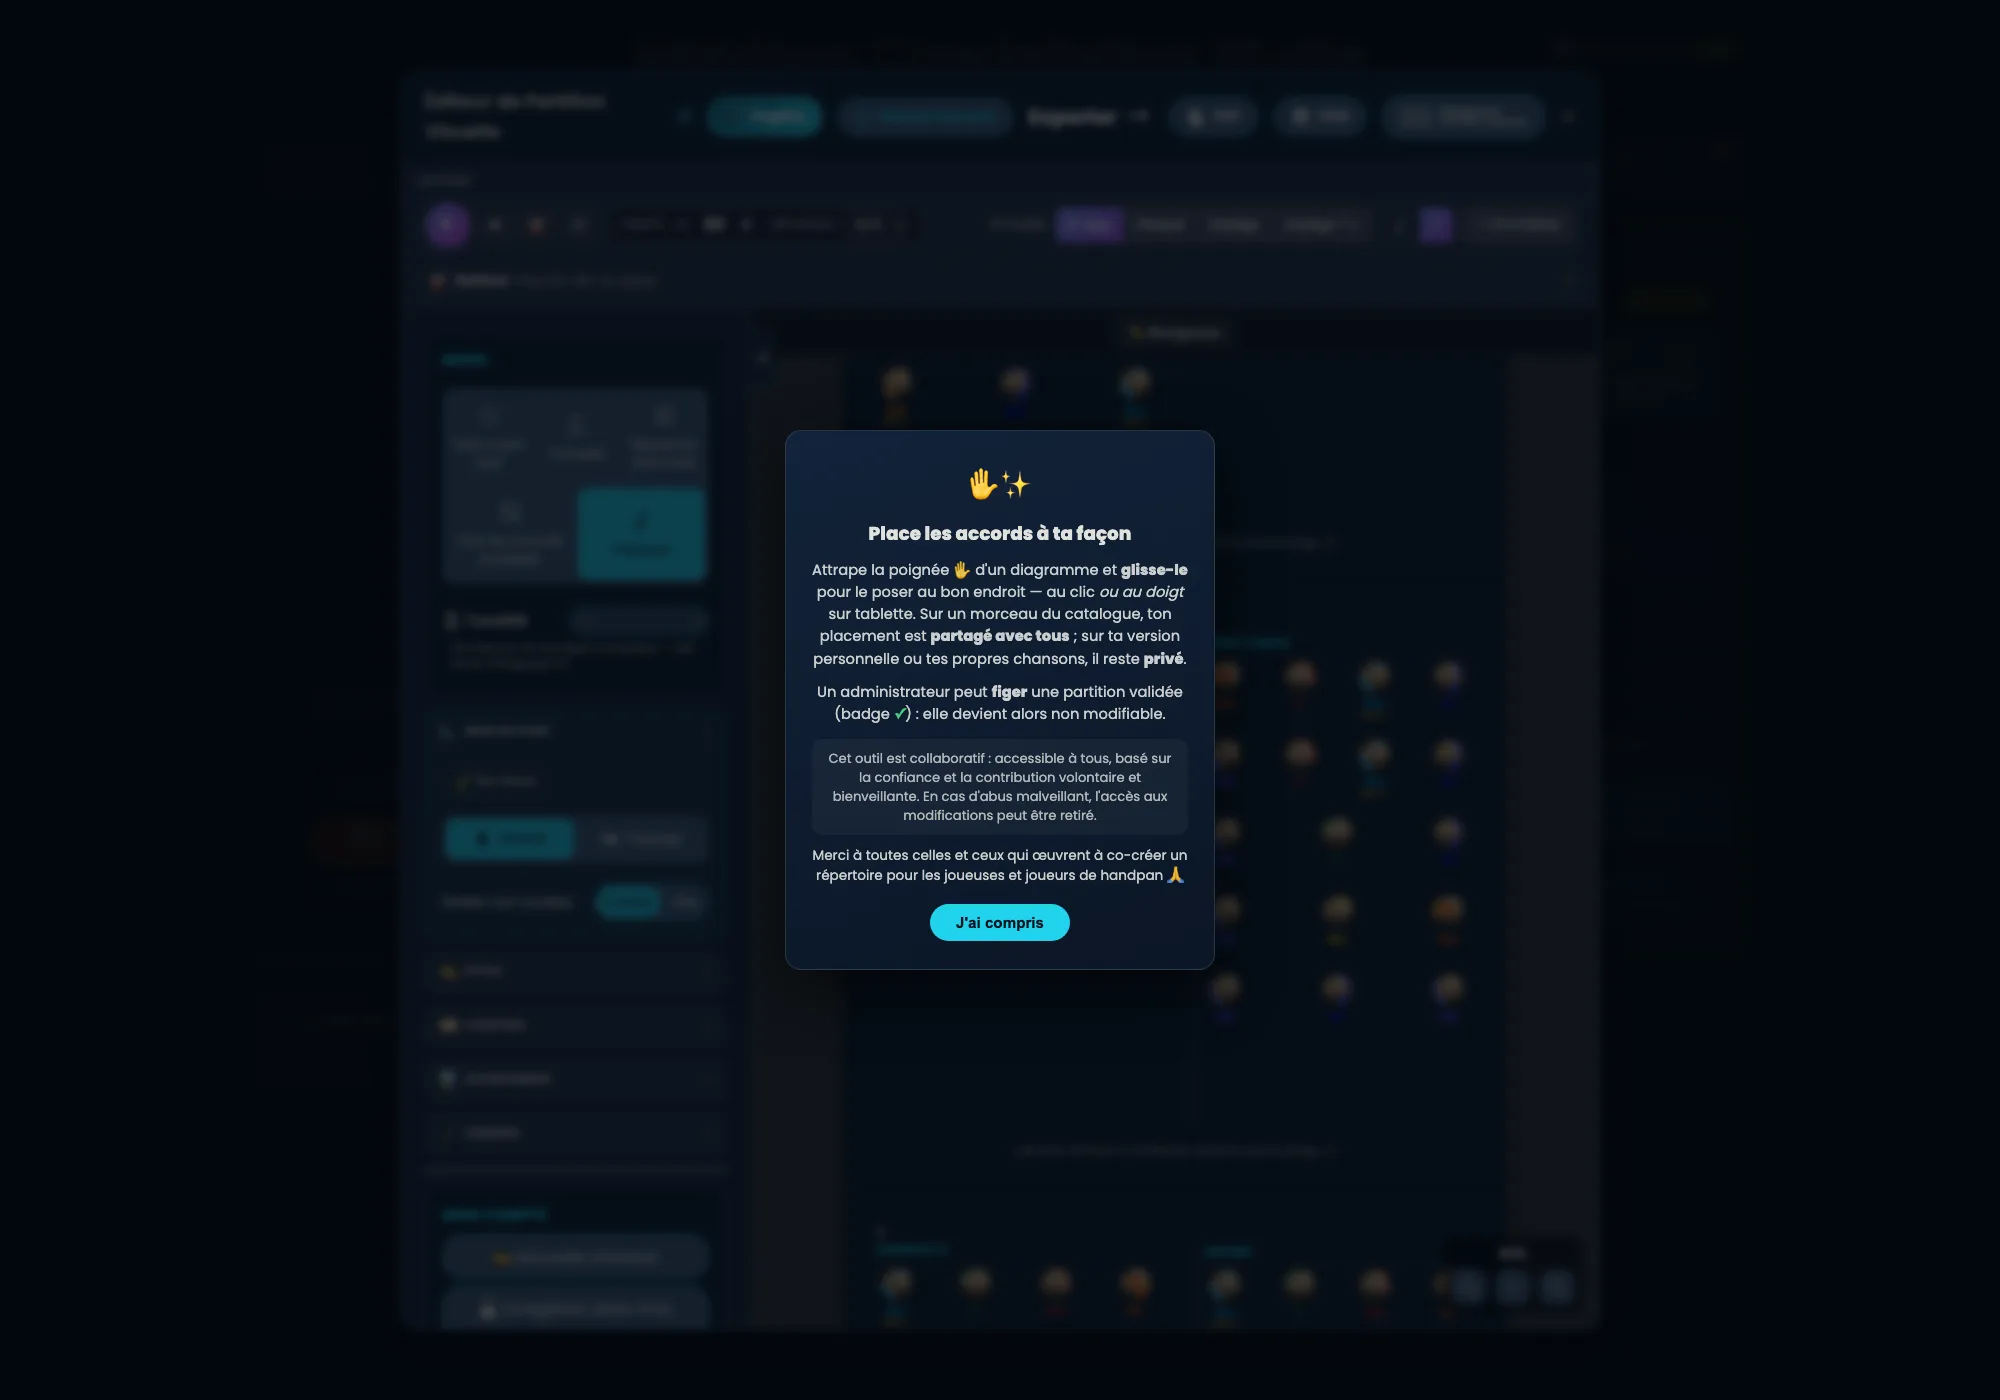
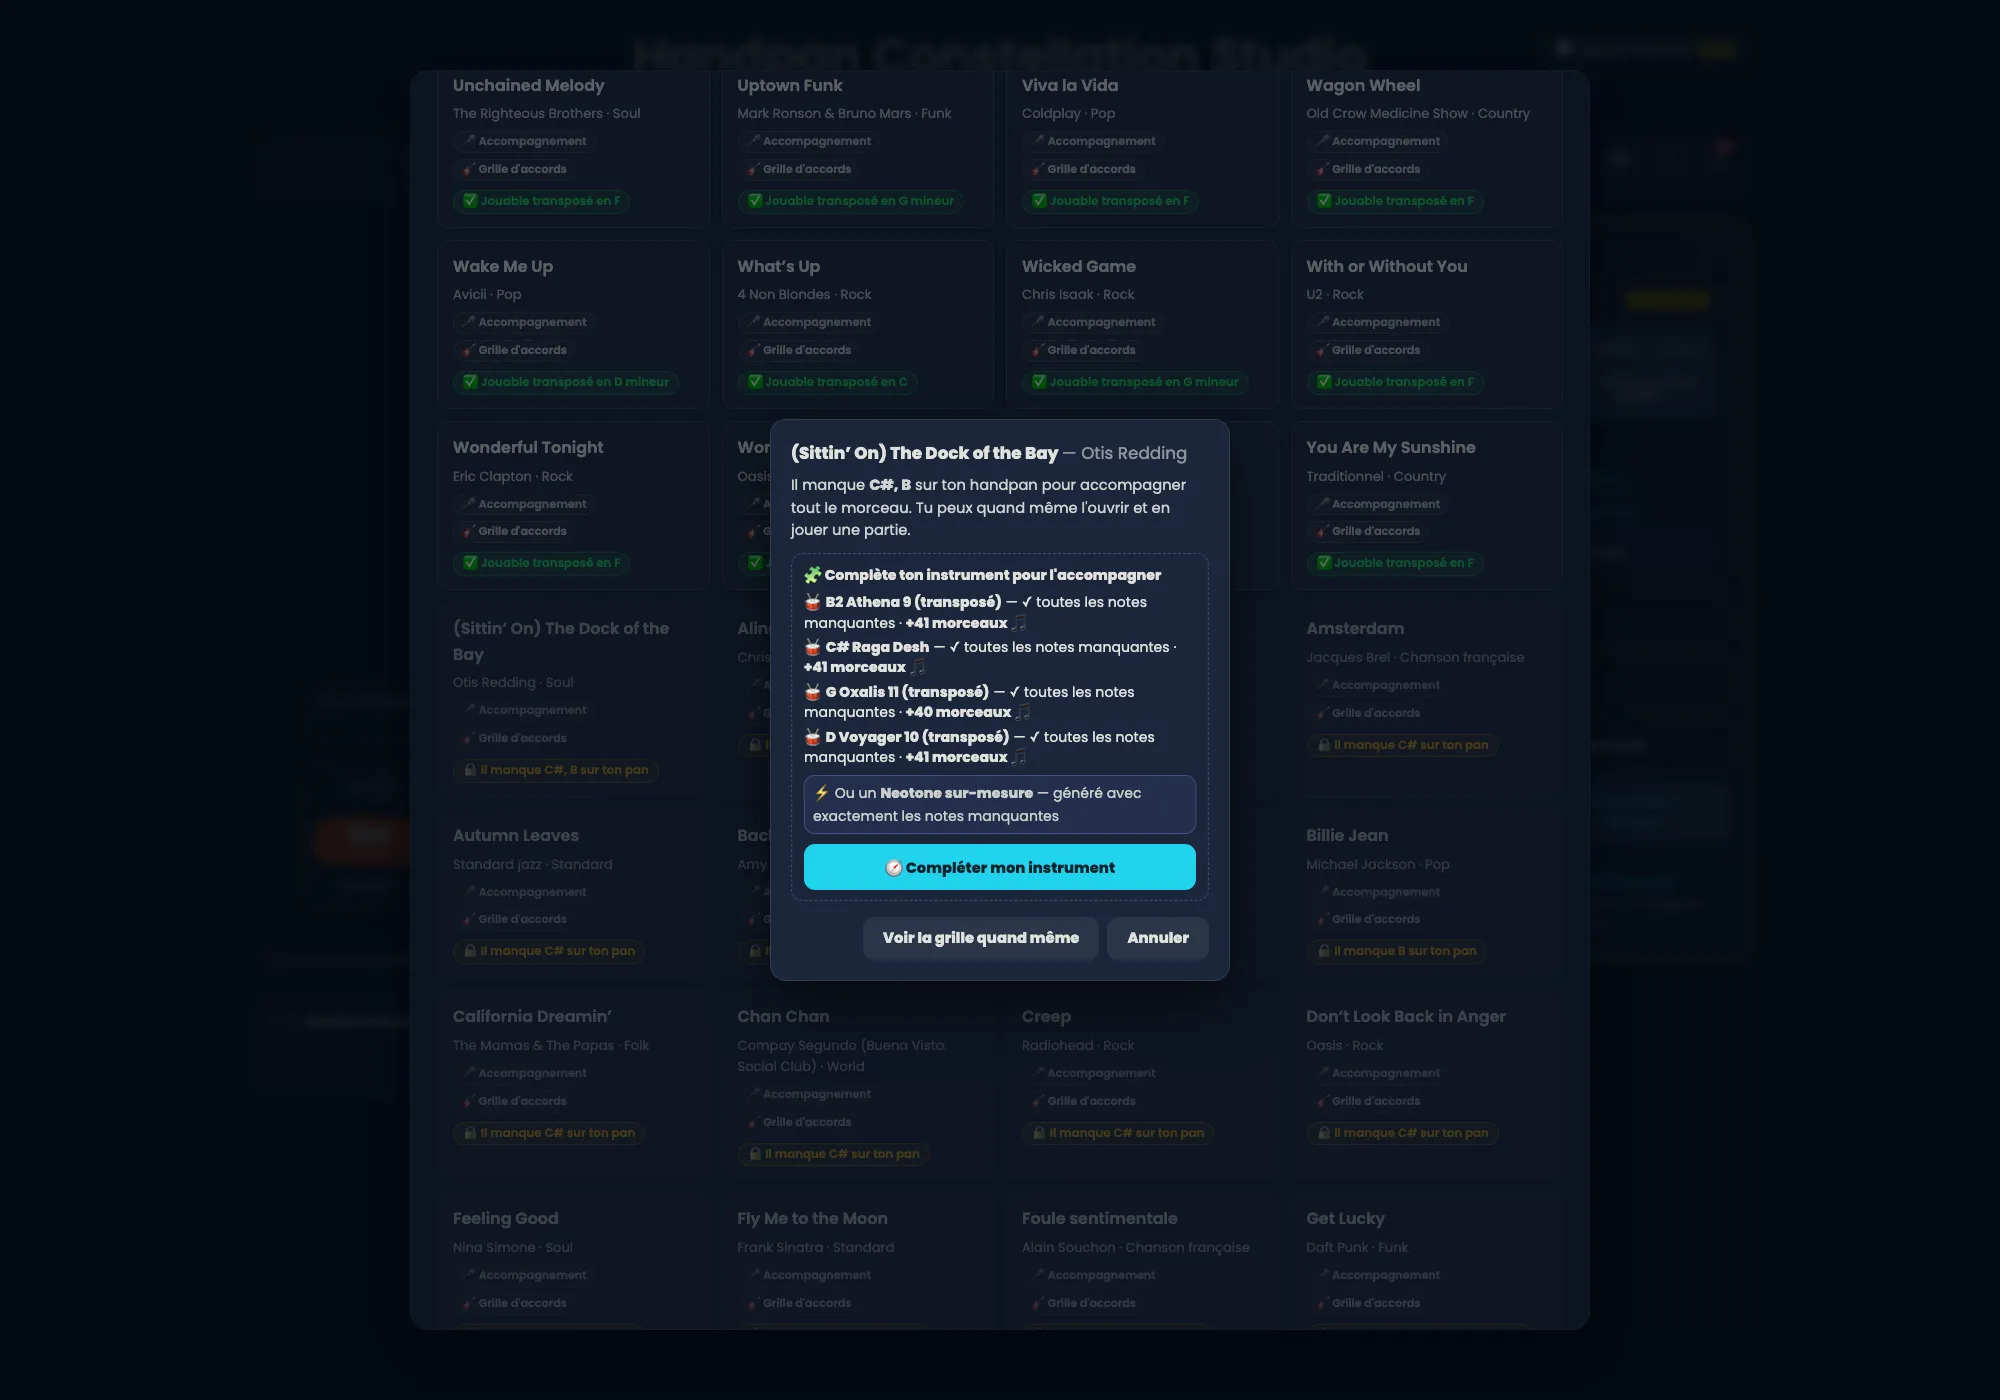
Un morceau bloqué n'est pas un mur : l'article le montre enfin
Rectificatif de la session APP (06/09 ~17h20) : les deux mécanismes coexistent.
« bibliotheque-musicale-handpan » disait « un bouton pour basculer sur la bonne
gamme » — faux. Chiffres mesurés sur D Kurd 10 (156 jouables, 41 bloqués), le vrai
dialogue de The Dock of the Bay (notes manquantes nommées, 4 handpans complémentaires
chiffrés, Neotone sur-mesure, « Voir la grille quand même ») et sa capture réelle.

Atlas : vignette recadrée 6 destinations en couverture (FR + EN).
MIDI : app-midi.webp (juin, onglet périmé) remplacée par l'assistant de mapping
actuel dans l'article Neotone, StudioPage et la boutique. L'ancienne image est
conservée, on ne supprime pas les archives.

FR + EN. Build 116 pages.

diff --git a/src/data/shop.ts b/src/data/shop.ts
@@ -54,7 +54,7 @@ export const categorySubs: Record<string, readonly string[]> = {
 
 export const products: Product[] = [
   // Application Handpan Constellation Studio — produit phare digital
-  { id: 'handpan-studio', price: 0, image: '/images/app-logique.webp', imgW: 1100, imgH: 1327, url: '/handpan-app', category: 'app', active: true, mode: 'link', linkLabel: 'discover', tagKey: 'app', priceLabel: 'Version gratuite ou Studio dès 9,90 €/mois', images: ['/images/app-logique.webp', '/images/app-atlas.webp', '/images/app-creation.webp', '/images/app-midi.webp', '/images/constel-polygone.webp'] },
+  { id: 'handpan-studio', price: 0, image: '/images/app-logique.webp', imgW: 1100, imgH: 1327, url: '/handpan-app', category: 'app', active: true, mode: 'link', linkLabel: 'discover', tagKey: 'app', priceLabel: 'Version gratuite ou Studio dès 9,90 €/mois', images: ['/images/app-logique.webp', '/images/app-atlas.webp', '/images/app-creation.webp', '/images/app-midi-mapping-2026.webp', '/images/constel-polygone.webp'] },
   { id: 'neotone-one', price: 1990, image: '/images/neotone1-1.jpg', imgW: 670, imgH: 653, url: '/le-neotone', category: 'handpans', sub: 'electronique', active: true, mode: 'quote', images: modelCarousels.one.map((s) => s.src) },
   { id: 'neotone-mutant', price: 3150, image: '/images/mutant-0.jpg', imgW: 670, imgH: 614, url: '/le-neotone', category: 'handpans', sub: 'electronique', active: true, mode: 'quote', images: modelCarousels.mutant.map((s) => s.src) },
   // ⚖ Yishama vit dans la catégorie « handpans », sous-catégorie ACOUSTIQUE, à

diff --git a/src/content/blog/bibliotheque-musicale-handpan.md b/src/content/blog/bibliotheque-musicale-handpan.md
@@ -37,7 +37,7 @@ Chaque morceau porte désormais une pastille, calculée sur les notes réelles d
 - 🥁 **jouable avec un autre joueur** ;
 - 🔒 **il manque des notes** — et l'app te dit lesquelles.
 
-Des compteurs en tête de liste t'annoncent la couleur avant même que tu cherches. Et si tu cliques quand même sur un morceau incompatible, tu n'as pas droit à un refus sec : tu obtiens une explication claire et un bouton pour basculer sur la bonne gamme. En mode acoustique, l'app va plus loin et te propose le morceau **transposé dans la tonalité de ton handpan**.
+Des compteurs en tête de liste t'annoncent la couleur avant même que tu cherches. Sur un **D Minor / Kurd 10**, le compte tombe net : **156 morceaux jouables, 41 bloqués**. Les deux mécanismes cohabitent, ils ne s'excluent pas — la transposition automatique (« ✅ Jouable transposé en F ») rend jouable ce qui peut l'être dans une autre tonalité, et la pastille ambre (« 🔒 Il manque C# sur ton pan ») annonce franchement ce qui ne rentre pas.
 
 <figure>
   <img
@@ -52,6 +52,26 @@ Des compteurs en tête de liste t'annoncent la couleur avant même que tu cherch
   <figcaption>La liste, avec les pastilles calculées sur la gamme chargée. En tête, le compte annoncé avant toute recherche : « <strong>Tu peux en accompagner 156</strong> · 41 de plus avec d'autres notes ». Sur les fiches, la nuance est visible — <em>He's a Pirate</em> est jouable tel quel, <em>Let It Be</em> et <em>Hallelujah</em> jouables transposés en F, <em>Zombie</em> en ré mineur.</figcaption>
   <p class="figure-hint"><svg viewBox="0 0 24 24" fill="none" stroke="currentColor" stroke-width="2" stroke-linecap="round" stroke-linejoin="round" aria-hidden="true"><polyline points="15 3 21 3 21 9"></polyline><polyline points="9 21 3 21 3 15"></polyline><line x1="21" y1="3" x2="14" y2="10"></line><line x1="3" y1="21" x2="10" y2="14"></line></svg>Clique sur l'image pour l'ouvrir, puis à nouveau dessus pour la taille réelle.</p>
 </figure>
+
+Un morceau bloqué s'ouvre quand même. Clique dessus et l'app ne te claque pas la porte au nez : elle nomme les notes qui manquent, te dit que tu peux entrer malgré tout, puis te montre par quoi compléter ton instrument — chiffres à l'appui.
+
+<figure>
+  <img
+    src="/images/app-bibliotheque-morceau-incompatible.webp"
+    width="2000"
+    height="1400"
+    alt="La bibliothèque en thème sombre, avec par-dessus le dialogue ouvert sur un morceau bloqué. Derrière, les fiches montrent les deux familles de pastilles : en vert « ✅ Jouable transposé en F », « ✅ Jouable transposé en G mineur », « ✅ Jouable transposé en D mineur » (Unchained Melody, Uptown Funk, Viva la Vida, Wagon Wheel, Wake Me Up, What's Up, Wicked Game, With or Without You, Wonderful Tonight, You Are My Sunshine) ; en ambre « 🔒 Il manque C# sur ton pan », « 🔒 Il manque C#, B sur ton pan », « 🔒 Il manque B sur ton pan » (California Dreamin', Chan Chan, Creep, Don't Look Back in Anger, Amsterdam, Billie Jean). Au centre, le dialogue intitulé « (Sittin' On) The Dock of the Bay — Otis Redding » : « Il manque C#, B sur ton handpan pour accompagner tout le morceau. Tu peux quand même l'ouvrir et en jouer une partie. » Puis un encadré « 🧩 Complète ton instrument pour l'accompagner » listant quatre handpans complémentaires chiffrés : 🥁 B2 Athena 9 (transposé) — ✓ toutes les notes manquantes · +41 morceaux ; 🥁 C# Raga Desh — ✓ toutes les notes manquantes · +41 morceaux ; 🥁 G Oxalis 11 (transposé) — ✓ toutes les notes manquantes · +40 morceaux ; 🥁 D Voyager 10 (transposé) — ✓ toutes les notes manquantes · +41 morceaux. En dessous, un encadré « ⚡ Ou un Neotone sur-mesure — généré avec exactement les notes manquantes », un grand bouton cyan « 🧭 Compléter mon instrument », et deux boutons secondaires « Voir la grille quand même » et « Annuler »."
+    data-lb="incompatible"
+    data-lb-wide
+    loading="lazy"
+  />
+  <figcaption>Le dialogue d'un morceau bloqué — <em>(Sittin' On) The Dock of the Bay</em> sur un D Kurd 10. L'app nomme les notes absentes (« <strong>Il manque C#, B</strong> »), rappelle que le morceau reste ouvrable, puis chiffre ce qu'un second instrument débloquerait : <strong>+41 morceaux</strong> avec un B2 Athena 9, <strong>+40</strong> avec un G Oxalis 11. Et en bas, le bouton qui compte : « Voir la grille quand même ».</figcaption>
+  <p class="figure-hint"><svg viewBox="0 0 24 24" fill="none" stroke="currentColor" stroke-width="2" stroke-linecap="round" stroke-linejoin="round" aria-hidden="true"><polyline points="15 3 21 3 21 9"></polyline><polyline points="9 21 3 21 3 15"></polyline><line x1="21" y1="3" x2="14" y2="10"></line><line x1="3" y1="21" x2="10" y2="14"></line></svg>Clique sur l'image pour l'ouvrir, puis à nouveau dessus pour la taille réelle.</p>
+</figure>
+
+Ni mur, ni simple transposition : une porte. L'app dit ce qui manque, propose un deuxième handpan qui comble exactement le trou — avec le nombre de morceaux gagnés —, propose un Neotone sur-mesure généré avec précisément ces notes-là, et te laisse quand même entrer dans la grille.
+
+En mode acoustique, l'app va plus loin et te propose le morceau **transposé dans la tonalité de ton handpan** quand c'est possible.
 
 ## Ta bibliothèque te suit
 

diff --git a/src/content/blog/bibliotheque-musicale-handpan-en.md b/src/content/blog/bibliotheque-musicale-handpan-en.md
@@ -37,7 +37,7 @@ Every piece now carries a marker, computed from the real notes of your scale:
 - 🥁 **playable with another player**;
 - 🔒 **notes are missing** — and the app tells you which.
 
-Counters at the top of the list give you the picture before you even start searching. And if you click an incompatible piece anyway, you don't get a flat refusal: you get a clear explanation and a button to switch to the right scale. In acoustic mode the app goes further and offers the piece **transposed into your handpan's key**.
+Counters at the top of the list give you the picture before you even start searching. On a **D Minor / Kurd 10** the count is blunt: **156 pieces playable, 41 blocked**. Both mechanisms live side by side — automatic transposition (« ✅ Jouable transposé en F ») makes playable whatever can be played in another key, while the amber badge (« 🔒 Il manque C# sur ton pan ») says plainly what does not fit.
 
 <figure>
   <img
@@ -52,6 +52,26 @@ Counters at the top of the list give you the picture before you even start searc
   <figcaption>The list, with badges computed against the loaded scale. At the top, the count announced before you search anything: « <strong>Tu peux en accompagner 156</strong> » — 156 you can accompany, 41 more with other notes. On the cards the nuance shows — <em>He's a Pirate</em> plays as is, <em>Let It Be</em> and <em>Hallelujah</em> transposed to F, <em>Zombie</em> to D minor. (Screenshot of the French interface.)</figcaption>
   <p class="figure-hint"><svg viewBox="0 0 24 24" fill="none" stroke="currentColor" stroke-width="2" stroke-linecap="round" stroke-linejoin="round" aria-hidden="true"><polyline points="15 3 21 3 21 9"></polyline><polyline points="9 21 3 21 3 15"></polyline><line x1="21" y1="3" x2="14" y2="10"></line><line x1="3" y1="21" x2="10" y2="14"></line></svg>Click the image to open it, then click again for full size.</p>
 </figure>
+
+A blocked piece still opens. Click it and the app doesn't slam the door: it names the missing notes, tells you that you can go in anyway, then shows you what would complete your instrument — with numbers.
+
+<figure>
+  <img
+    src="/images/app-bibliotheque-morceau-incompatible.webp"
+    width="2000"
+    height="1400"
+    alt="The library in dark theme, with the dialogue for a blocked piece open on top. Behind it, the cards show both families of badges: green « ✅ Jouable transposé en F », « ✅ Jouable transposé en G mineur », « ✅ Jouable transposé en D mineur » (Unchained Melody, Uptown Funk, Viva la Vida, Wagon Wheel, Wake Me Up, What's Up, Wicked Game, With or Without You, Wonderful Tonight, You Are My Sunshine); amber « 🔒 Il manque C# sur ton pan », « 🔒 Il manque C#, B sur ton pan », « 🔒 Il manque B sur ton pan » (California Dreamin', Chan Chan, Creep, Don't Look Back in Anger, Amsterdam, Billie Jean). In the centre, the dialogue titled « (Sittin' On) The Dock of the Bay — Otis Redding »: « Il manque C#, B sur ton handpan pour accompagner tout le morceau. Tu peux quand même l'ouvrir et en jouer une partie. » Then a box « 🧩 Complète ton instrument pour l'accompagner » listing four complementary handpans with figures: 🥁 B2 Athena 9 (transposed) — all missing notes · +41 pieces; 🥁 C# Raga Desh — all missing notes · +41 pieces; 🥁 G Oxalis 11 (transposed) — all missing notes · +40 pieces; 🥁 D Voyager 10 (transposed) — all missing notes · +41 pieces. Below, a box « ⚡ Ou un Neotone sur-mesure — généré avec exactement les notes manquantes », a large cyan button « 🧭 Compléter mon instrument », and two secondary buttons « Voir la grille quand même » and « Annuler »."
+    data-lb="incompatible"
+    data-lb-wide
+    loading="lazy"
+  />
+  <figcaption>The dialogue for a blocked piece — <em>(Sittin' On) The Dock of the Bay</em> on a D Kurd 10. The app names the missing notes (« <strong>Il manque C#, B</strong> » — C# and B are missing), reminds you the piece can still be opened, then puts a figure on what a second instrument would unlock: <strong>+41 pieces</strong> with a B2 Athena 9, <strong>+40</strong> with a G Oxalis 11. And at the bottom, the button that matters: « Voir la grille quand même » — see the chart anyway. (Screenshot of the French interface.)</figcaption>
+  <p class="figure-hint"><svg viewBox="0 0 24 24" fill="none" stroke="currentColor" stroke-width="2" stroke-linecap="round" stroke-linejoin="round" aria-hidden="true"><polyline points="15 3 21 3 21 9"></polyline><polyline points="9 21 3 21 3 15"></polyline><line x1="21" y1="3" x2="14" y2="10"></line><line x1="3" y1="21" x2="10" y2="14"></line></svg>Click the image to open it, then click again for full size.</p>
+</figure>
+
+Neither a wall nor plain transposition: a door. The app says what is missing, offers a second handpan that fills exactly that gap — with the number of pieces gained —, offers a made-to-measure Neotone generated with precisely those notes, and still lets you into the chart.
+
+In acoustic mode the app goes further and offers the piece **transposed into your handpan's key** where that is possible.
 
 ## Your library follows you
 

diff --git a/src/content/blog/pourquoi-handpan-electronique-en.md b/src/content/blog/pourquoi-handpan-electronique-en.md
@@ -32,7 +32,7 @@ An acoustic handpan is tuned once and for all: one scale, one key. The Neotone c
 
 Over **MIDI**, the Neotone drives any music software. It becomes an expressive controller for composing, layering sounds or playing virtual instruments — all while keeping the natural gesture of the handpan.
 
-![The Neotone used as a MIDI controller in Handpan Constellation Studio](/images/app-midi.webp)
+![The MIDI mapping assistant in Handpan Constellation Studio, « Midi connect » tab: the panel « Clique sur ‘Lancer le Mapping Auto’ » with its two paths — « Lancer le Mapping Auto » and « 🎵 Ma gamme Neotone officielle » —, the Neotone Mutant · Noyer drawn below with its chromatic ring from C to B across three octaves, and on the right the « Mes handpans » panel (MIDI & mapping, Modèle & bois, ⚡⚡ Deux électroniques) then the « Paramètres MIDI » block. Screenshot of the French interface.](/images/app-midi-mapping-2026.webp)
 
 ## Who is the Neotone for?
 

diff --git a/src/content/blog/pourquoi-handpan-electronique.md b/src/content/blog/pourquoi-handpan-electronique.md
@@ -32,7 +32,7 @@ Un handpan acoustique est accordé une fois pour toutes : une gamme, une tonalit
 
 En **MIDI**, le Neotone pilote n'importe quel logiciel de musique. Il devient un contrôleur expressif pour composer, superposer des sons ou jouer des instruments virtuels — tout en gardant le geste naturel du handpan.
 
-![Le Neotone utilisé comme contrôleur MIDI dans Handpan Constellation Studio](/images/app-midi.webp)
+![L'assistant de mapping MIDI de Handpan Constellation Studio, onglet « Midi connect » : l'encart « Clique sur ‘Lancer le Mapping Auto’ » avec ses deux chemins — « Lancer le Mapping Auto » et « 🎵 Ma gamme Neotone officielle » —, le Neotone Mutant · Noyer dessiné en dessous avec sa couronne chromatique C→B sur trois octaves, et à droite le panneau « Mes handpans » (MIDI & mapping, Modèle & bois, ⚡⚡ Deux électroniques) puis le bloc « Paramètres MIDI ».](/images/app-midi-mapping-2026.webp)
 
 ## Pour qui est fait le Neotone ?
 

diff --git a/src/content/blog/atlas-des-gammes-de-handpan.md b/src/content/blog/atlas-des-gammes-de-handpan.md
@@ -2,7 +2,7 @@
 title: "L'Atlas Sonore : voyager dans les gammes du monde"
 description: "L'Atlas de Handpan Constellation Studio te laisse parcourir les gammes de handpan du monde entier, les écouter et les visualiser en couleurs. Un voyage sonore."
 pubDate: 2026-07-06
-cover: "/images/blog-atlas-destinations.webp"
+cover: "/images/blog-atlas-destinations-2026-vignette.webp"
 category: "gammes"
 tags: ["gammes", "atlas"]
 lang: "fr"

diff --git a/src/content/blog/atlas-des-gammes-de-handpan-en.md b/src/content/blog/atlas-des-gammes-de-handpan-en.md
@@ -2,7 +2,7 @@
 title: "The Sound Atlas: travelling through the world's scales"
 description: "Handpan Constellation Studio's Atlas lets you roam handpan scales from around the world, hear them and see them in colour. A sonic journey."
 pubDate: 2026-07-06
-cover: "/images/blog-atlas-destinations.webp"
+cover: "/images/blog-atlas-destinations-2026-vignette.webp"
 category: "gammes"
 tags: ["scales", "atlas"]
 lang: "en"
